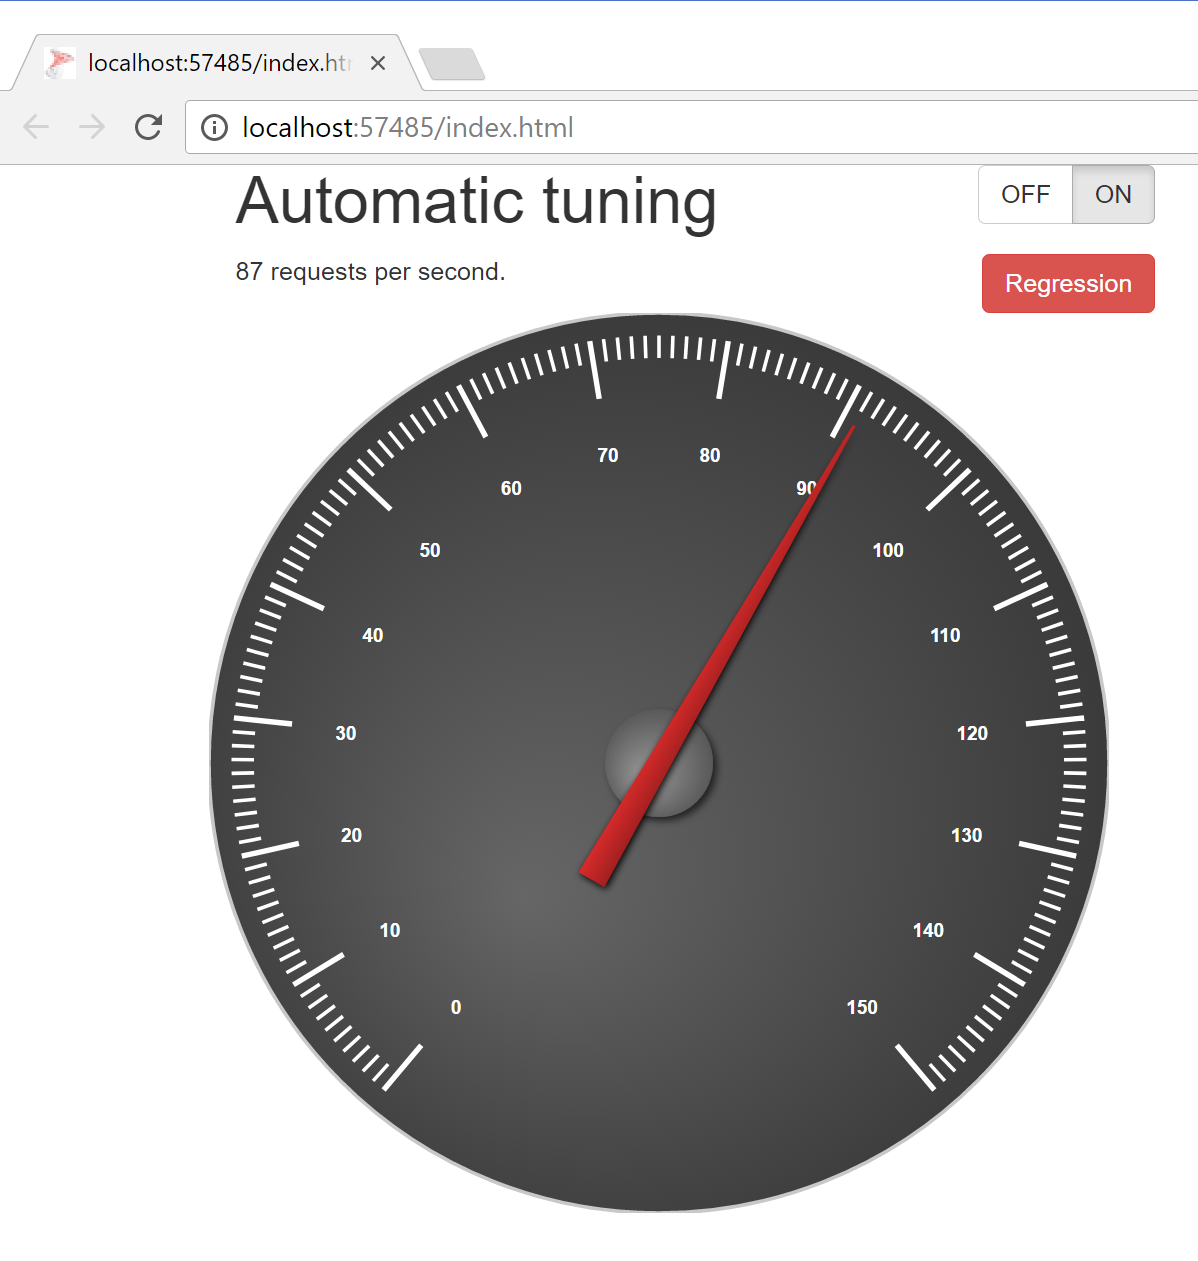
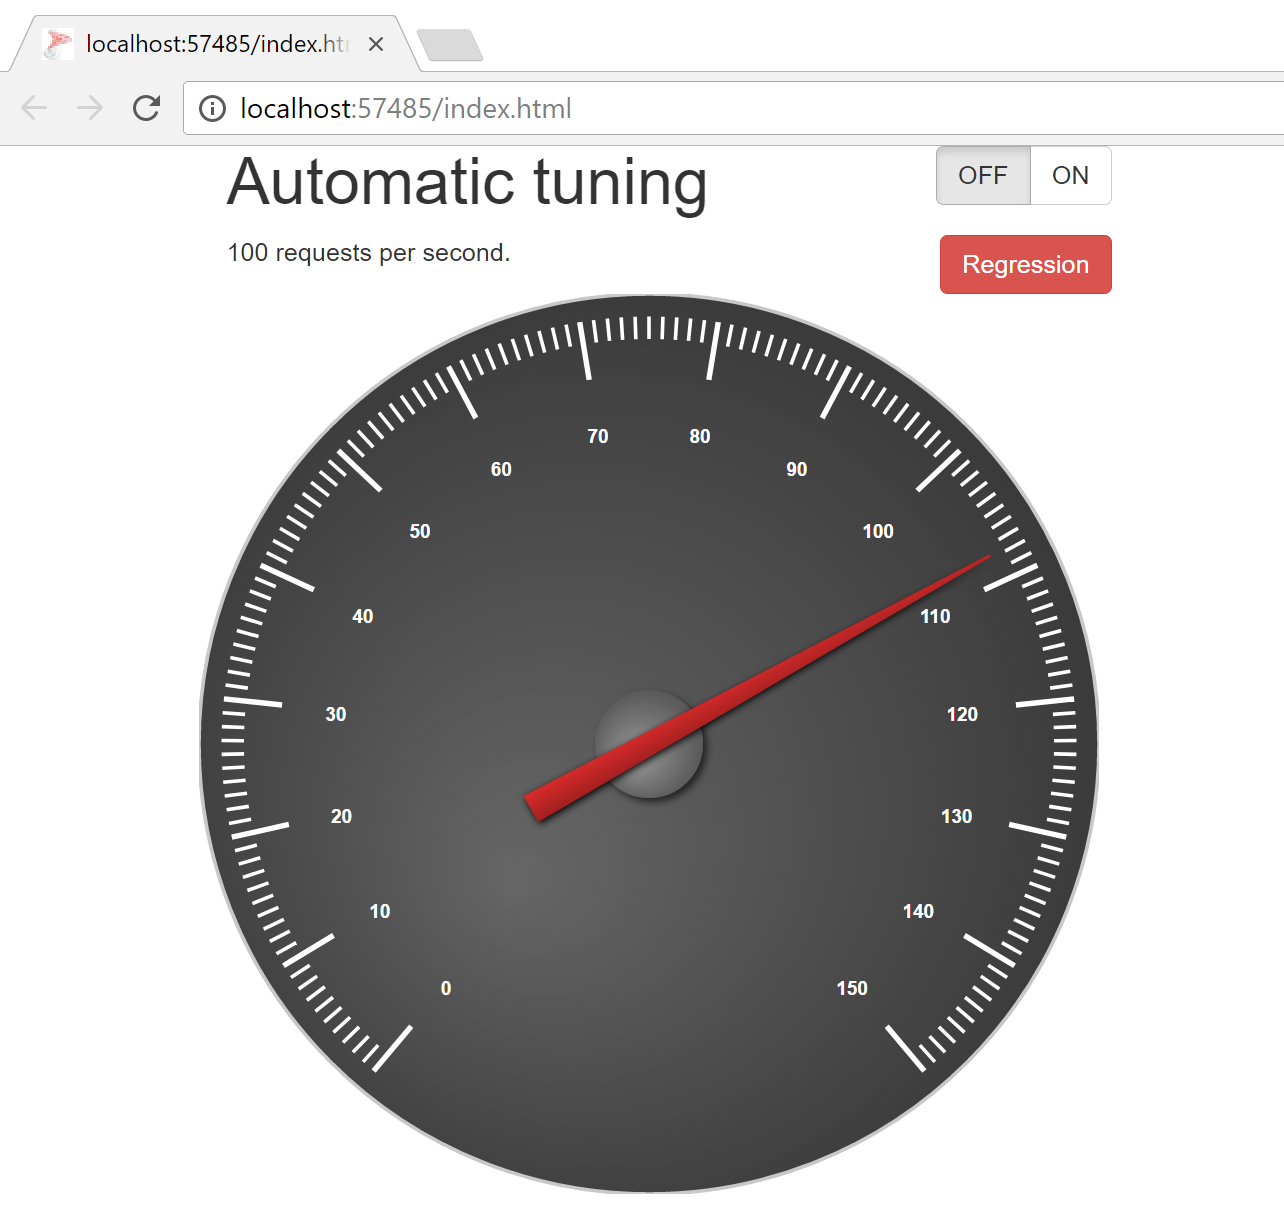
Updated FLGP demo

diff --git a/samples/features/automatic-tuning/force-last-good-plan/wwwroot/index.html b/samples/features/automatic-tuning/force-last-good-plan/wwwroot/index.html
@@ -28,7 +28,6 @@
 
         body {
             margin: auto;
-            width: 80%;
         }
     </style>
     <link href="media/bootstrap.min.css" rel="stylesheet" />

diff --git a/samples/features/automatic-tuning/force-last-good-plan/README.md b/samples/features/automatic-tuning/force-last-good-plan/README.md
@@ -66,7 +66,11 @@ Open demo-full.sql and follow the comments in the code.
  correction script is in the view
  - Open Query Store UI in SSMS (e.g. "Top Resource Consuming Queries") and find the query. Verify that there are two plans - one faster with **Hash Aggregate** and another slower with **Stream Aggregate**
 
-![Last good plan](../../../../media/features/automatic-tuning/flgp-query-store-ui-last-good-plan.png "Last good plan") ![Regressed plan](../../../../media/features/automatic-tuning/flgp-query-store-ui-regressed-plan.png "Regressed plan")
+![Last good plan](../../../../media/features/automatic-tuning/flgp-query-store-ui-last-good-plan.png "Last good plan")
+Fig. 1. Optimal plan with "Hash Aggregate".
+
+![Regressed plan](../../../../media/features/automatic-tuning/flgp-query-store-ui-regressed-plan.png "Regressed plan")
+Fig. 2. Regressed plan with "Stream Aggregate".
 
  - Take the script from the `sys.dm_db_tuning_recommendations` view and force the recommended plan.
  - Execute query `EXEC dbo.report 7` 20 times and verify that the execution is faster. Open Query Store UI in SSMS (e.g. "Top Resource Consuming Queries"), find the query, verify that the plan is forced and that the regression is fixed.
@@ -87,11 +91,13 @@ Web page collects response from the web server, calculates expected throughput b
 last 10 T-SQL request durations, and displays how many requests per second can be executed.
 
 ![Web app](../../../../media/features/automatic-tuning/flgp-web-ui.png "Demo web app")
+Fig. 3. Number of requests per seconds.
 
 In default state, automatic tuning is turned OFF on the database. You can press **Regression**
 button to cause SQL plan choice regression in database layer. On the user interface will be shown decreased number of requests per seconds that can be served.
 
 ![Web app](../../../../media/features/automatic-tuning/flgp-web-ui-regression.png "Demo web app")
+Fig. 4. Number of requests per seconds after regression.
 
 If you refresh the page, the database state will be cleaned (i.e. query store and plan cache will be cleaned). You can turn on automatic tuning, wait some time to SQL Database analyze the workload and cause the regression again. You will notice that there is a regression that will be automatically corrected after some time. Pressing the **Regression** button again will not cause any regression.
 
